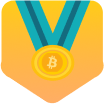
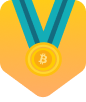
added styles for Rewards page

diff --git a/src/components/Reward.tsx b/src/components/Reward.tsx
@@ -7,13 +7,32 @@ import styles from './Reward.style';
 
 interface IRewardProps {
 	isVisible: boolean;
+	messages: string[];
+	winAmount: number;
+	currency: string;
 	onContinue: () => void;
 }
 
 export default class Reward extends Component<IRewardProps> {
 
+	getWinAmount = () => {
+		const { winAmount, currency } = this.props;
+
+		if (winAmount && winAmount > 0) {
+			const formattedWinAmount = winAmount.toLocaleString();
+			return (
+				<View style={styles.winAmount}>
+					<Text style={styles.win}>{formattedWinAmount}</Text>
+					<Text style={styles.currency}>{currency}</Text>
+				</View>
+			);
+		}
+
+		return null;
+	}
+
 	render(): React.ReactNode {
-		const { isVisible, onContinue } = this.props;
+		const { isVisible, messages, winAmount, onContinue } = this.props;
 
 		return (
 			<Modal
@@ -30,12 +49,14 @@ export default class Reward extends Component<IRewardProps> {
 						/>
 					</View>
 
-					<Text style={styles.win}>20,000 sats</Text>
-					<Text style={styles.message}>Keep shopping &amp; win more bitcoin.</Text>
+					{this.getWinAmount()}
+
+					<Text style={styles.message}>{messages.join('\n')}</Text>
 
 					<Button
 						onClick={onContinue}
 						content="Continue"
+						btnContainerStyle={styles.continueButtonContainerStyle}
 						btnStyle={styles.continueButtonStyle}
 					/>
 				</View>

diff --git a/src/components/Reward.style.ts b/src/components/Reward.style.ts
@@ -12,35 +12,51 @@ const RewardStyles = StyleSheet.create({
 		textAlign: 'center',
 		color: CommonColors.white,
 		fontSize: 20,
-		fontFamily: 'Poppins-Regular',
+		lineHeight: 24,
+		fontFamily: 'Roboto-Bold',
 		paddingTop: 30,
-		marginBottom: 16,
+		marginBottom: 8,
 	},
 	medalLogoContainer: {
 		justifyContent: 'center',
 		alignItems: 'center',
 	},
 	medalLogo: {
-		width: 102,
-		height: 108,
+		width: 86,
+		height: 102,
+	},
+	winAmount: {
+		textAlign: 'center',
+		marginTop: 8,
+		flexDirection: 'row',
+		justifyContent: 'center',
 	},
 	win: {
+		fontSize: 26,
+		fontFamily: 'Roboto-Bold',
 		color: CommonColors.cyan,
-		fontSize: 20,
-		fontWeight: 'bold',
-		textAlign: 'center',
-		marginTop: 20,
+		marginBottom: -2,
+	},
+	currency: {
+		fontSize: 16,
+		fontFamily: 'Roboto-Bold',
+		color: CommonColors.cyan,
+		alignSelf: 'flex-end',
 	},
 	message: {
 		color: CommonColors.white,
 		fontSize: 12,
-		fontWeight: 'bold',
+		fontFamily: 'Roboto-Regular',
 		textAlign: 'center',
 		marginVertical: 12,
 	},
-	continueButtonStyle: {
+	continueButtonContainerStyle: {
 		borderRadius: 8,
-		marginTop: 20,
+		marginVertical: 16,
+	},
+	continueButtonStyle: {
+		fontSize: 16,
+		fontFamily: 'Roboto-Bold',
 	},
 });
 

diff --git a/src/App.tsx b/src/App.tsx
@@ -2,6 +2,7 @@ import React, { Component } from 'react';
 import {
 	StatusBar,
 	View,
+	Text,
 } from 'react-native';
 
 import Button from './components/common/Button';
@@ -25,11 +26,18 @@ class App extends Component<{}, AppState> {
 		this.setState({ isVisible: false });
 	}
 
+	getMessages = () => {
+		return [
+			'20% satsback will be added to your wallet.',
+			'keep shopping & win more sats.',
+		];
+	}
+
 	render(): React.ReactNode {
 		const { isVisible } = this.state;
 
 		return (
-			<View style={{ fontFamily: 'Roboto' }}>
+			<View>
 				<StatusBar barStyle="dark-content" />
 				<Button
 					onClick={this.onButtonPress}
@@ -38,7 +46,10 @@ class App extends Component<{}, AppState> {
 
 				<Reward
 					isVisible={isVisible}
+					messages={this.getMessages()}
 					onContinue={this.onContinue}
+					winAmount={20000}
+					currency={'sats'}
 				/>
 			</View>
 		);

diff --git a/src/components/common/Button.tsx b/src/components/common/Button.tsx
@@ -6,20 +6,21 @@ import styles from './Button.style';
 interface IButtonProps {
   content: React.ReactNode;
   onClick: () => void;
+  btnContainerStyle?: StyleProp<TextStyle>;
   btnStyle?: StyleProp<TextStyle>;
 }
 
 export default class Button extends Component<IButtonProps> {
 	render(): React.ReactNode {
-		const { content, btnStyle, onClick } = this.props;
+		const { content, btnContainerStyle, btnStyle, onClick } = this.props;
 
 		return (
 			<TouchableHighlight
-				style={[styles.buttonStyle, btnStyle]}
+				style={[styles.buttonStyle, btnContainerStyle]}
 				onPress={onClick}
 				underlayColor="#fff"
 			>
-				<Text style={styles.buttonTextStyle}>
+				<Text style={[styles.buttonTextStyle, btnStyle]}>
 					{content}
 				</Text>
 			</TouchableHighlight>

diff --git a/src/Colors.ts b/src/Colors.ts
@@ -1,6 +1,6 @@
 export const CommonColors = {
 	white: '#fff',
-	orange: '#E56B37',
+	orange: '#E66B37',
 	black: '#3132c5',
 	purple: '#462963',
 	cyan: '#68DBFF',
